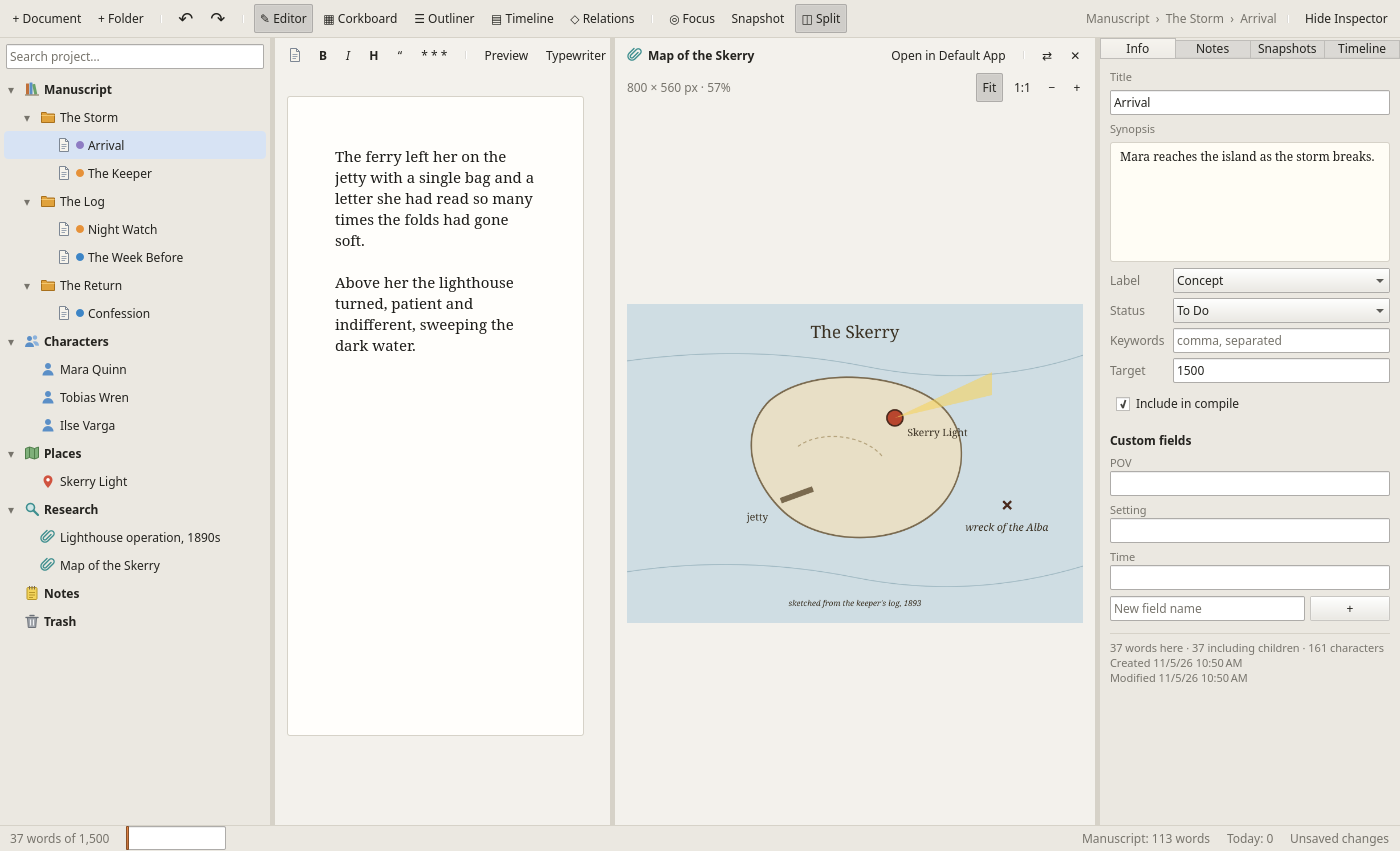
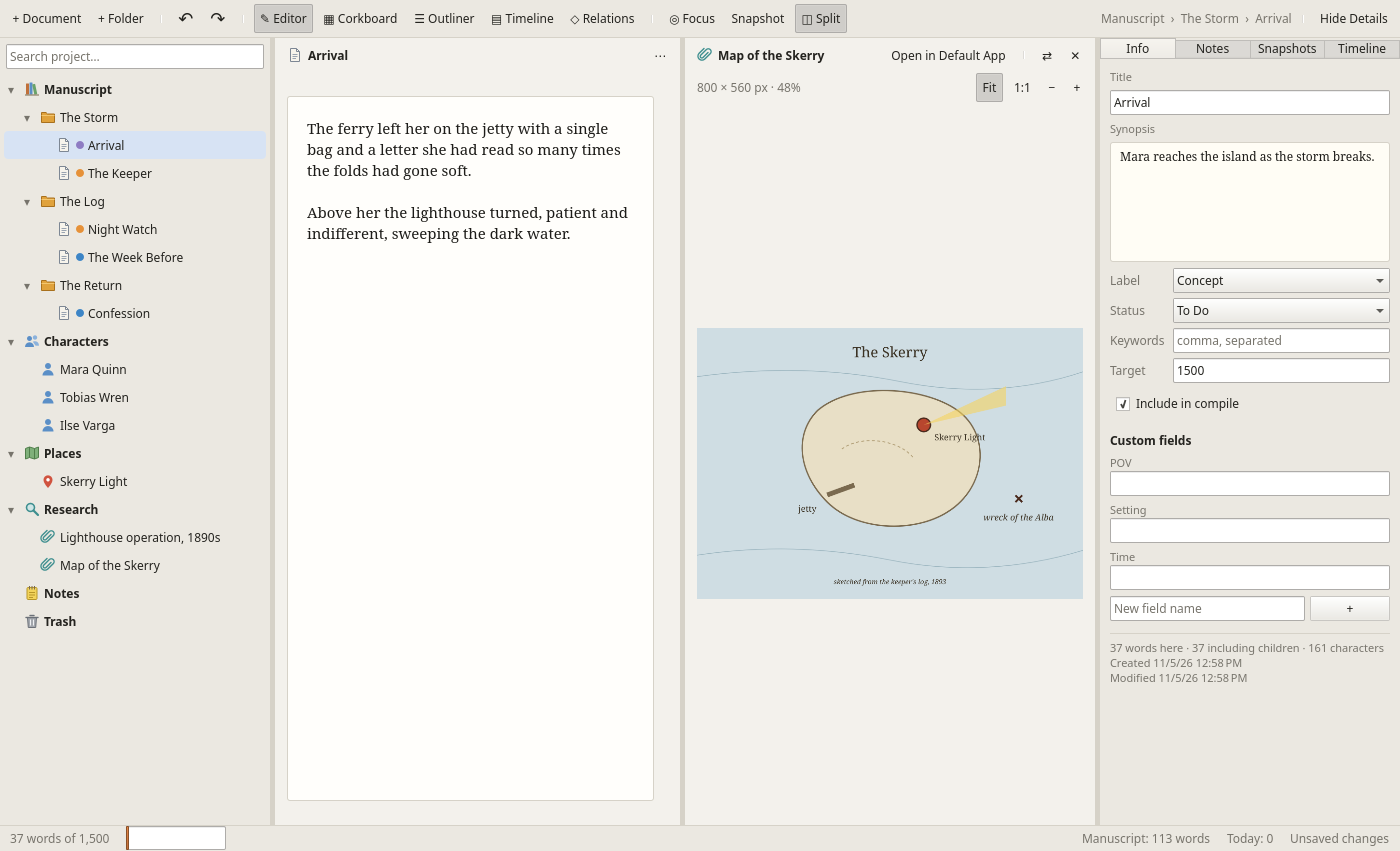
Rename the Inspector to the Details panel
User-facing name only: the toolbar button is Show/Hide Details and the
View menu item Show Details (still Ctrl+Alt+I, which avoids Ctrl+Alt+D
"show desktop" on some Linux desktops). Code keeps InspectorPane.

README, CHANGELOG, AppStream caption and the screenshots in
docs/screenshots/ are updated to match.

diff --git a/crates/wordloom-app/qml/Main.qml b/crates/wordloom-app/qml/Main.qml
@@ -207,7 +207,7 @@ ApplicationWindow {
             Action { text: qsTr("&Split Editor"); shortcut: "Ctrl+\\"; checkable: true; checked: win.ws ? win.ws.splitId !== "" : false; onTriggered: win.ws.toggleSplit() }
             Action { text: qsTr("&Focus Mode"); shortcut: "F11"; checkable: true; checked: win.ws ? win.ws.focusMode : false; onTriggered: win.ws.focusMode = !win.ws.focusMode }
             Action { text: qsTr("Show &Binder"); checkable: true; checked: win.ws ? win.ws.showBinder : true; onTriggered: win.ws.showBinder = !win.ws.showBinder }
-            Action { text: qsTr("Show &Inspector"); shortcut: "Ctrl+Alt+I"; checkable: true; checked: win.ws ? win.ws.showInspector : true; onTriggered: win.ws.showInspector = !win.ws.showInspector }
+            Action { text: qsTr("Show &Details"); shortcut: "Ctrl+Alt+I"; checkable: true; checked: win.ws ? win.ws.showInspector : true; onTriggered: win.ws.showInspector = !win.ws.showInspector }
             MenuSeparator {}
             Action { text: qsTr("Styled &Markdown"); checkable: true; checked: Theme.styledMarkdown; onTriggered: Theme.styledMarkdown = !Theme.styledMarkdown }
             Action { text: qsTr("Larger Text"); shortcut: StandardKey.ZoomIn; onTriggered: Theme.editorSize = Math.min(40, Theme.editorSize + 1) }

diff --git a/crates/wordloom-app/qml/Workspace.qml b/crates/wordloom-app/qml/Workspace.qml
@@ -3,7 +3,7 @@ import QtQuick.Controls
 import QtQuick.Layouts
 import com.wordloom.app
 
-// The main three-pane layout: binder | view | inspector, plus toolbar and
+// The main three-pane layout: binder | view | Details panel, plus toolbar and
 // status bar. Owns the current selection and view mode, and the optional
 // split editor: a second editor beside the main view that keeps showing one
 // document while the binder drives the main view.
@@ -229,7 +229,7 @@ Item {
                     Layout.maximumWidth: 420
                 }
                 ToolSeparator {}
-                ToolButton { text: ws.showInspector ? qsTr("Hide Inspector") : qsTr("Inspector"); onClicked: ws.showInspector = !ws.showInspector }
+                ToolButton { text: ws.showInspector ? qsTr("Hide Details") : qsTr("Show Details"); onClicked: ws.showInspector = !ws.showInspector }
             }
         }
 

diff --git a/crates/wordloom-app/qml/InspectorPane.qml b/crates/wordloom-app/qml/InspectorPane.qml
@@ -3,7 +3,7 @@ import QtQuick.Controls
 import QtQuick.Layouts
 import com.wordloom.app
 
-// Right-hand inspector: metadata, notes, snapshots and timeline links for the
+// The Details panel (InspectorPane in code): metadata, notes, snapshots and timeline links for the
 // selected item.
 Rectangle {
     id: ip

diff --git a/README.md b/README.md
@@ -10,7 +10,7 @@ Rust both support those platforms. CI currently builds Linux only: Windows CI is
 until the Linux version is complete (it passed when last enabled), and macOS CI waits on a Qt
 version that supports the macOS 26 SDK.
 
-![Wordloom's editor with styled Markdown, the binder and the inspector](docs/screenshots/editor.png)
+![Wordloom's editor with styled Markdown, the binder and the Details panel](docs/screenshots/editor.png)
 
 More screenshots: [timeline](docs/screenshots/timeline.png) ·
 [relationship map](docs/screenshots/relations.png) · [corkboard](docs/screenshots/corkboard.png) ·
@@ -25,9 +25,9 @@ More screenshots: [timeline](docs/screenshots/timeline.png) ·
 | **Focus mode** | F11 hides everything except the page. |
 | **Corkboard** | Index cards with label colour strips, status stamps and word counts. Edit titles and synopses on the card, resize cards, reorder them from the context menu. |
 | **Outliner** | A table of the whole subtree: synopsis, label, status, words, target and progress, all editable in place. |
-| **Inspector** | Synopsis, label, status, keywords, word target, include-in-compile, **character sheets / place sheets / scene facts** (custom fields), document notes, snapshots, and the timeline events linked to the item. |
+| **Details panel** | The right-hand panel (Show/Hide Details, Ctrl+Alt+I): synopsis, label, status, keywords, word target, include-in-compile, **character sheets / place sheets / scene facts** (custom fields), document notes, snapshots, and the timeline events linked to the item. |
 | **Undo & redo** | Project-wide: ↶/↷ on the toolbar and Edit ▸ Undo/Redo (Ctrl+Z / Ctrl+Shift+Z when you're not typing in a text box) reverse binder moves, renames, trash and empty trash, replace-all, metadata, labels, targets, and every timeline edit. The menu names the step (“Undo Move Event”). Typing has the editor's own undo, so undoing an old change never throws away text written since. Up to 200 steps per session. |
-| **Relationship map** | ◇ Relations (Ctrl+6) shows every character as a card you can drag around, with labelled arrows for how they relate (“Mara *distrusts* Tobias”). Add a relationship from the toolbar or a card's right-click menu, and click a label to edit it, add notes, swap its direction or delete it. The inspector lists each character's relationships. |
+| **Relationship map** | ◇ Relations (Ctrl+6) shows every character as a card you can drag around, with labelled arrows for how they relate (“Mara *distrusts* Tobias”). Add a relationship from the toolbar or a card's right-click menu, and click a label to edit it, add notes, swap its direction or delete it. The Details panel lists each character's relationships. |
 | **Research files** | Import images and PDFs (File ▸ Import File…, or drop files on the binder). They're copied into the project and shown in the editor: images with fit / zoom, PDFs page by page. Other file types open in your default app. |
 | **Snapshots** | Named versions per document. Restoring one first saves the current text as a snapshot, so you can't lose work that way. **Compare…** shows a snapshot side by side with the current text (or another snapshot): paragraphs line up, changed words are highlighted, and a count shows words added and removed. |
 | **Search & replace** | Searches titles, text, synopses, notes and keywords across the project, with snippets. Replace-all works across every document. |
@@ -136,7 +136,7 @@ Ctrl is ⌘ on macOS.
 | Relationship map | Ctrl+6 |
 | Split editor on / off | Ctrl+\\ |
 | Focus mode (leave with Esc) | F11 |
-| Show / hide inspector | Ctrl+Alt+I |
+| Show / hide the Details panel | Ctrl+Alt+I |
 | Bold · italic (in the editor) | Ctrl+B · Ctrl+I |
 | Larger / smaller editor text | Ctrl++ · Ctrl+− |
 | Zoom an image in the viewer | Ctrl+scroll |

diff --git a/CHANGELOG.md b/CHANGELOG.md
@@ -24,7 +24,7 @@ Notable changes to Wordloom. Each entry lands in the same commit as the change i
   Ctrl+I toggle the markup. View ▸ Styled Markdown switches it off.
 - **Relationship map.** A new Relations view (Ctrl+6) with draggable character cards and labelled,
   directed relationships with notes. Undoable; relationships are removed when a character is
-  deleted for good. The inspector lists a character's relationships.
+  deleted for good. The Details panel lists a character's relationships.
 - **Timeline swim lanes.** *Lanes* groups tracks by kind under collapsible headers.
 - The sample project includes an imported map and an earlier-draft snapshot.
 - Keyboard shortcut reference in the README.
@@ -37,7 +37,7 @@ Notable changes to Wordloom. Each entry lands in the same commit as the change i
 
 ### Fixed
 - **Narrow windows.** The editor header no longer overflows (less-used buttons fold into a ⋯
-  menu), the split editor opens at half the space and fits beside the inspector in a 1000 px
+  menu), the split editor opens at half the space and fits beside the Details panel in a 1000 px
   window, and narrow pages use smaller margins.
 - **Clicking a document opens the editor.** After a folder had switched to the corkboard (or from
   the outliner), selecting a document in it kept showing the corkboard.
@@ -51,6 +51,8 @@ Notable changes to Wordloom. Each entry lands in the same commit as the change i
   start screen and New Document once a project is open.
 
 ### Changed
+- The **Inspector** is now called the **Details** panel (toolbar: Show/Hide Details; View ▸ Show
+  Details, still Ctrl+Alt+I).
 - Binder, corkboard, outliner, editor and timeline icons are bundled SVGs instead of emoji, so they
   look the same everywhere. Emoji showed as empty boxes where the system's emoji font couldn't be
   drawn, including in the AppImage. Toolbar "＋" and "⎙" symbols became a plain "+" and text for the
